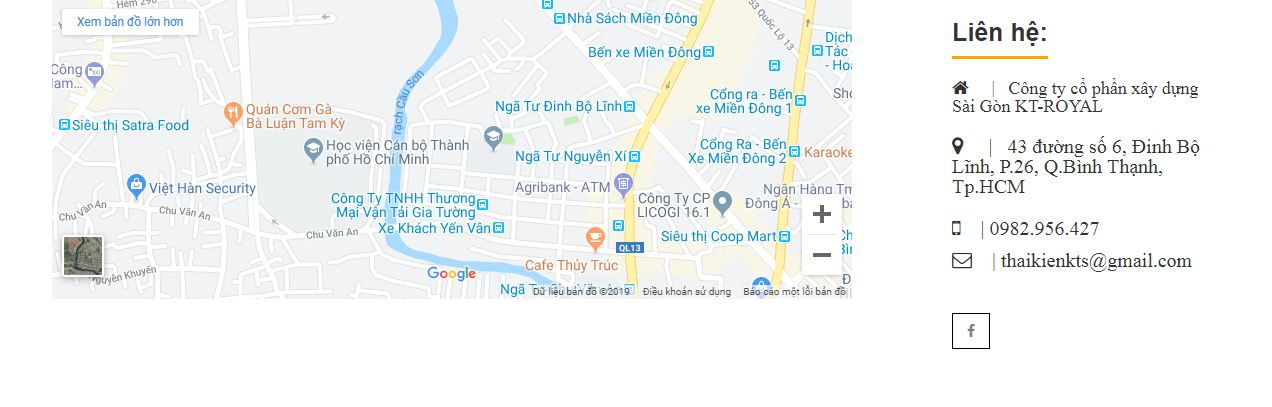
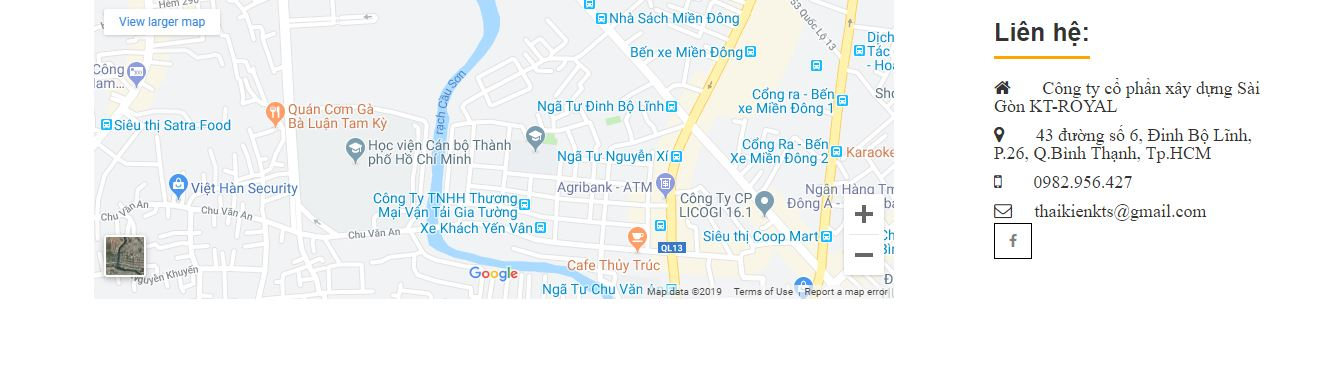
hieune

diff --git a/1229/less/1229.less b/1229/less/1229.less
@@ -210,6 +210,10 @@
         }
         
       }
+       @media screen and (max-width: 600px) {
+        .description{
+            padding-left: 40px;
+        }}
     
      
 }

diff --git a/1229/css/1229.css b/1229/css/1229.css
@@ -188,3 +188,8 @@
     text-align: center;
   }
 }
+@media screen and (max-width: 600px) {
+  .type-1229 .description {
+    padding-left: 40px;
+  }
+}

diff --git a/1228/1228.php b/1228/1228.php
@@ -28,5 +28,5 @@ $url_path = str_replace('\\', '/', $url_path);
 </head>
 
 <body>
-    <?php include $dir_block.'/1228-content.php'; ?>
+    <?php include '1228-content.php'; ?>
 </body>
